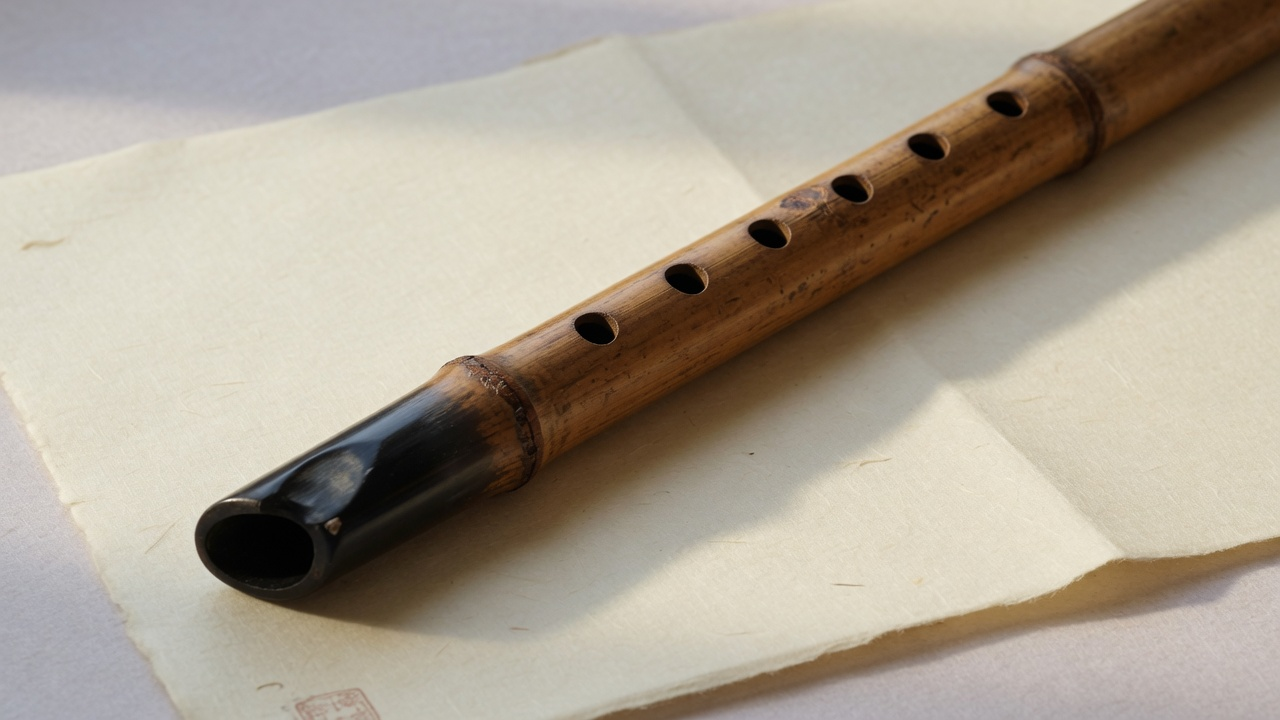
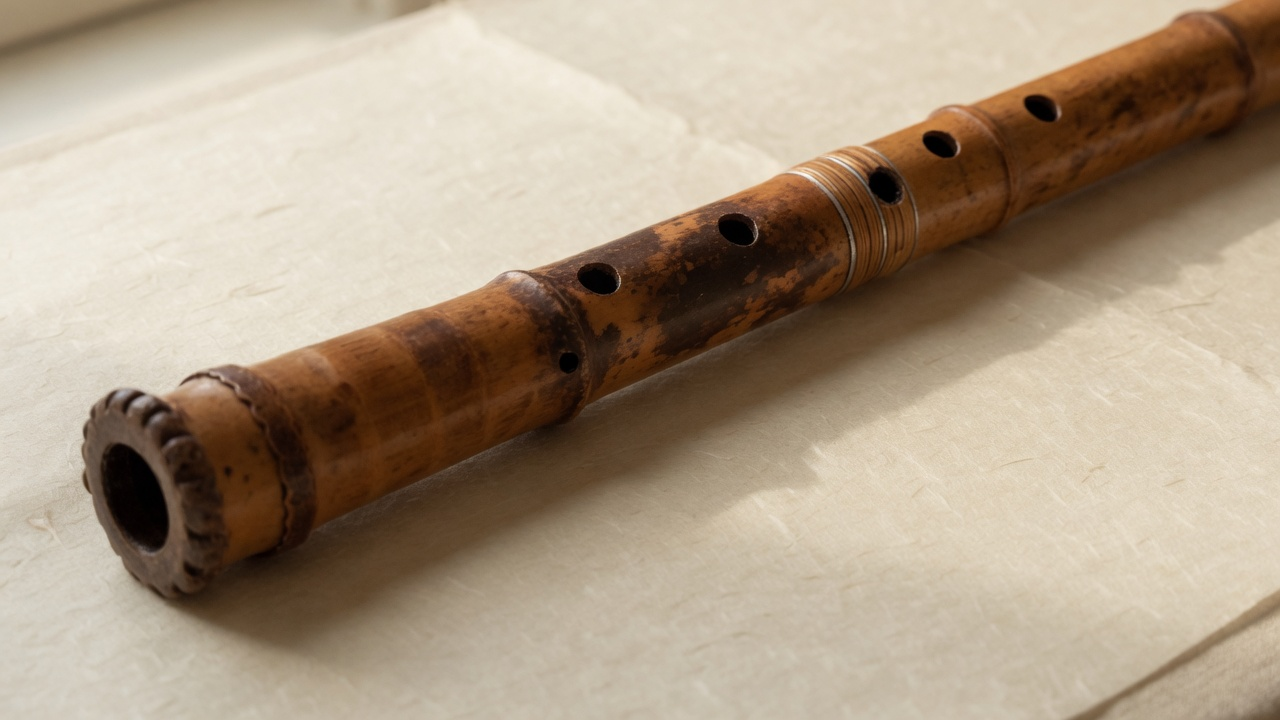
Use the instructor’s handmade shakuhachi as the site photography.
Replace the generic flute still-lifes with new photos based on the workshop references, without publishing those snapshots themselves.

diff --git a/index.html b/index.html
@@ -158,7 +158,7 @@
 
       <section class="section" id="instrument" style="background: var(--paper-2)">
         <div class="section-narrow split">
-          <img src="./img/detail.jpg" alt="尺八の歌口を近くから見た写真" />
+          <img src="./img/detail.jpg" alt="手作り尺八の根元を近くから見た写真" />
           <div>
             <p class="section-kicker">INSTRUMENTS</p>
             <h2>入門用手作り尺八</h2>

diff --git a/en/index.html b/en/index.html
@@ -158,7 +158,7 @@
 
       <section class="section" id="instruments" style="background: var(--paper-2)">
         <div class="section-narrow split">
-          <img src="../img/detail.jpg" alt="Close-up of a shakuhachi blowing edge" />
+          <img src="../img/detail.jpg" alt="Close-up of the handmade shakuhachi root end" />
           <div>
             <p class="section-kicker">INSTRUMENTS</p>
             <h2>Handmade starter shakuhachi</h2>
